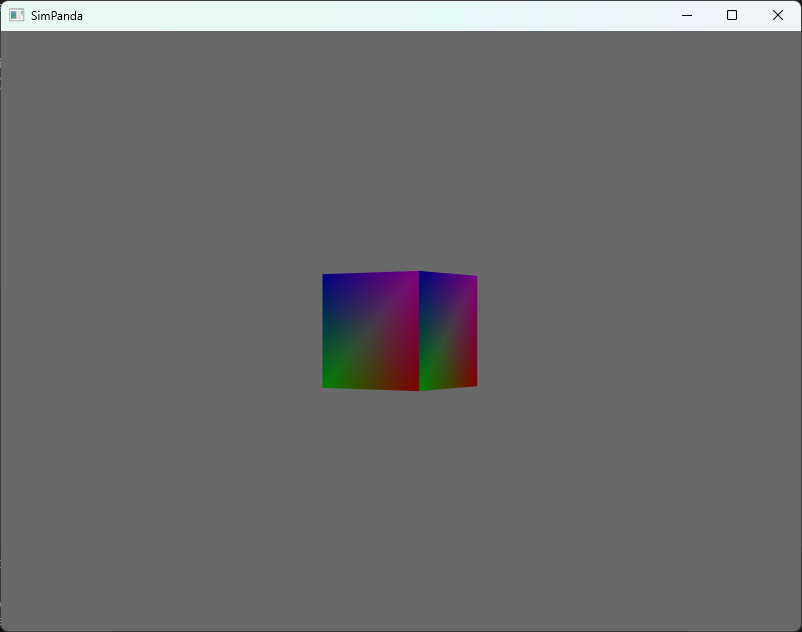
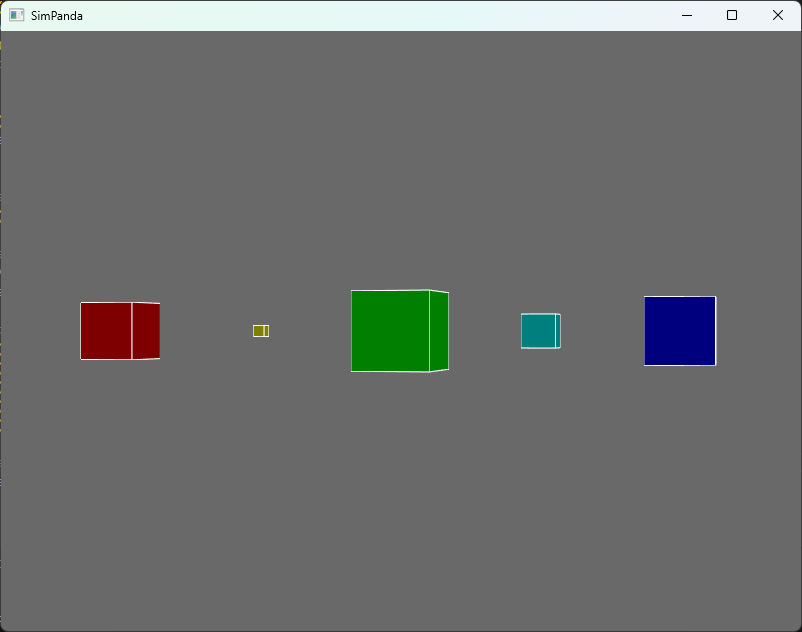
make simpy and panda3d interact 💕

diff --git a/sources/main.py b/sources/main.py
@@ -1,24 +1,32 @@
 from simpanda import Container
 from simpanda import cube
 
-container = Container(sim_time_to_real_time_ratio=1)
+def process(container: Container, x: float, y: float, z: float, s: float, r: float, g: float, b: float):
+    # Create 3D visualization object
+    object = cube(r, g, b)
+    object.reparentTo(container.app.render)
+    object.setPos(x, y, z)
+    object.setScale(s)
+    # Generate simulation events and update visualization object
+    pitch = 0.0
+    while True:
+        object.setHpr(pitch, 0.0, 0.0)
+        yield container.env.timeout(1)
+        pitch = pitch + 1
 
+# Simulation and visualization container
+container = Container(sim_time_to_real_time_ratio=0.1)
+
+# Disable mouse interaction and set camera coordinates
 container.app.disableMouse()
 container.app.camera.setPos(0, -20, 0)
 
-cube1 = cube(1, 0, 0)
-cube1.reparentTo(container.app.render)
-cube1.setPos(-5, 0, 0)
-cube1.hprInterval(15, (360, 0, 0)).loop()
+# Start simulation and visualization processes
+container.env.process(process(container, -5.0, 0.0, 0.0, 0.5, 0.5, 0.0, 0.0))
+container.env.process(process(container, -2.5, 0.0, 0.0, 0.1, 0.5, 0.5, 0.0))
+container.env.process(process(container,  0.0, 0.0, 0.0, 0.7, 0.0, 0.5, 0.0))
+container.env.process(process(container, +2.5, 0.0, 0.0, 0.3, 0.0, 0.5, 0.5))
+container.env.process(process(container, +5.0, 0.0, 0.0, 0.6, 0.0, 0.0, 0.5))
 
-cube2 = cube(0, 1, 0)
-cube2.reparentTo(container.app.render)
-cube2.setPos(0, 0, 0)
-cube2.hprInterval(15, (360, 0, 0)).loop()
-
-cube3 = cube(0, 0, 1)
-cube3.reparentTo(container.app.render)
-cube3.setPos(5, 0, 0)
-cube3.hprInterval(15, (360, 0, 0)).loop()
-
-container.run(sim_time_duration=10)
+# Run the simulation and visualization threads
+container.run(sim_time_duration=360)
